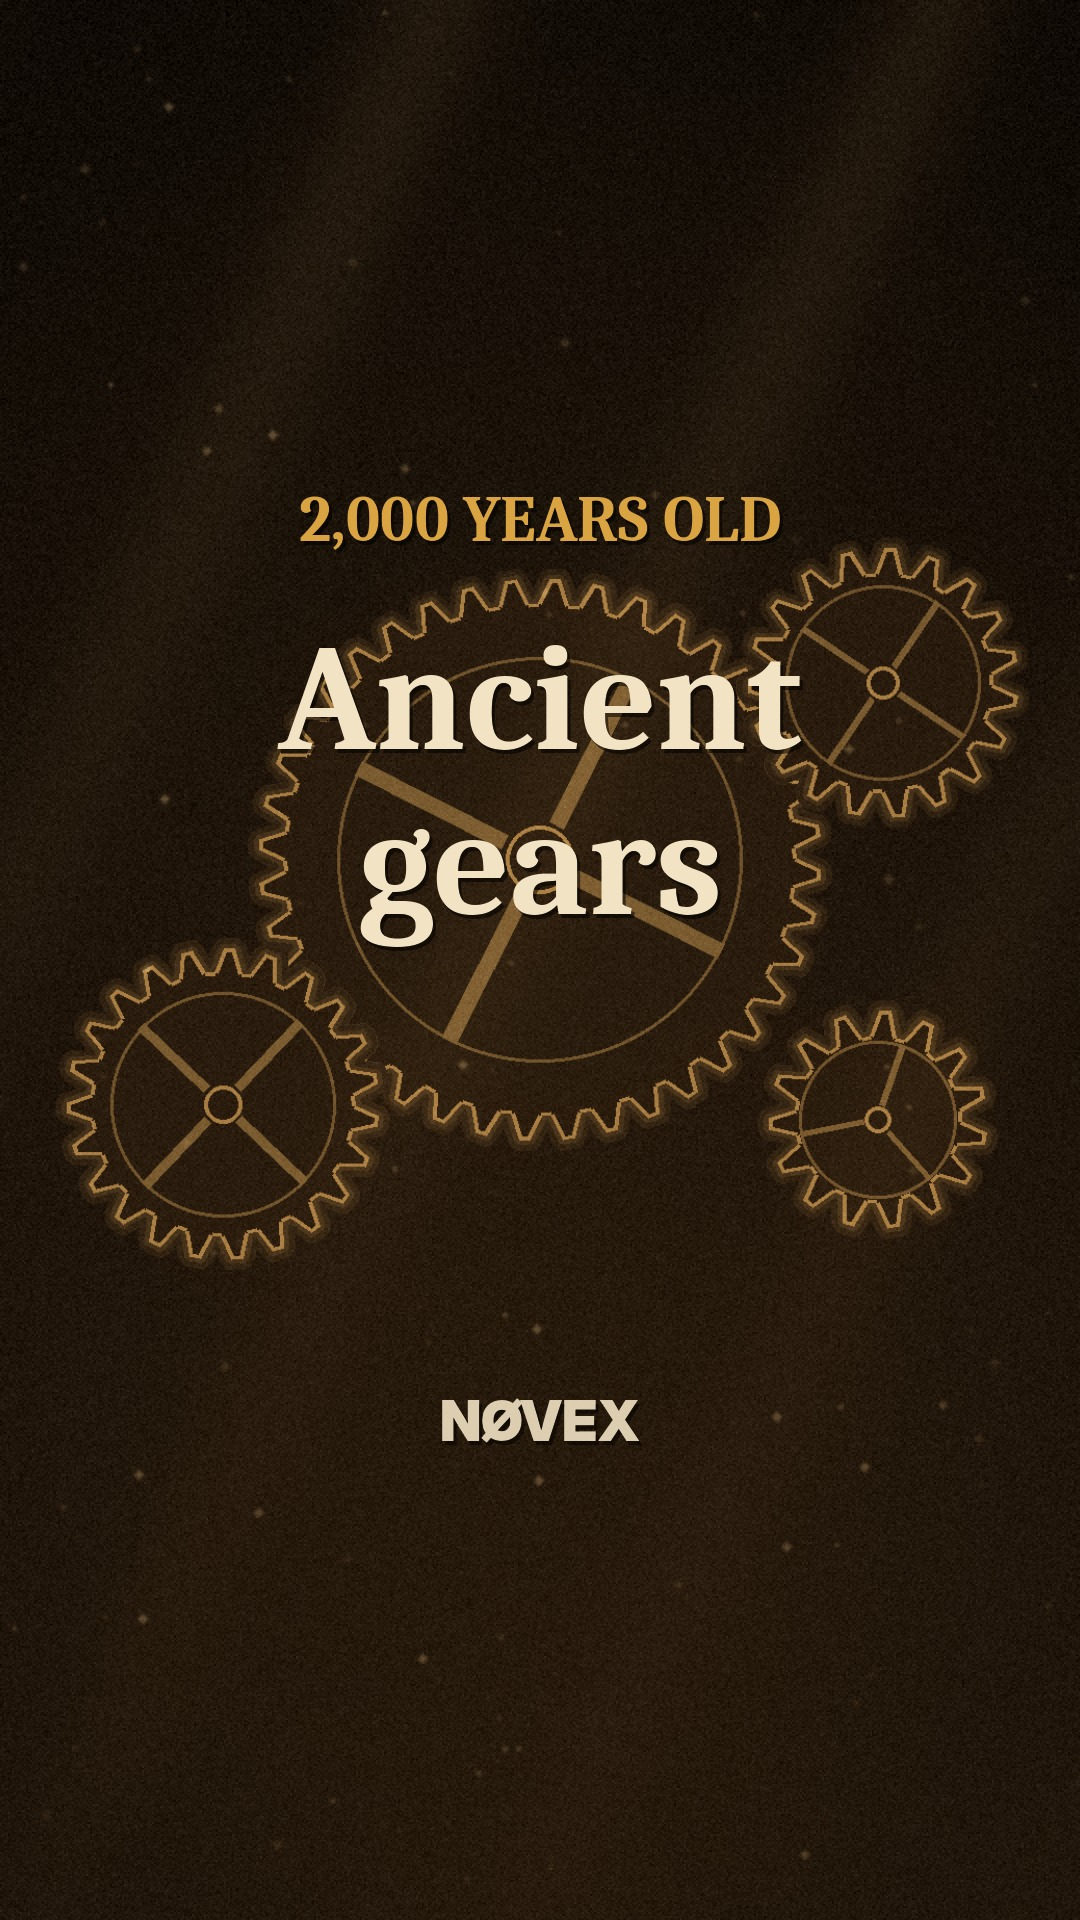
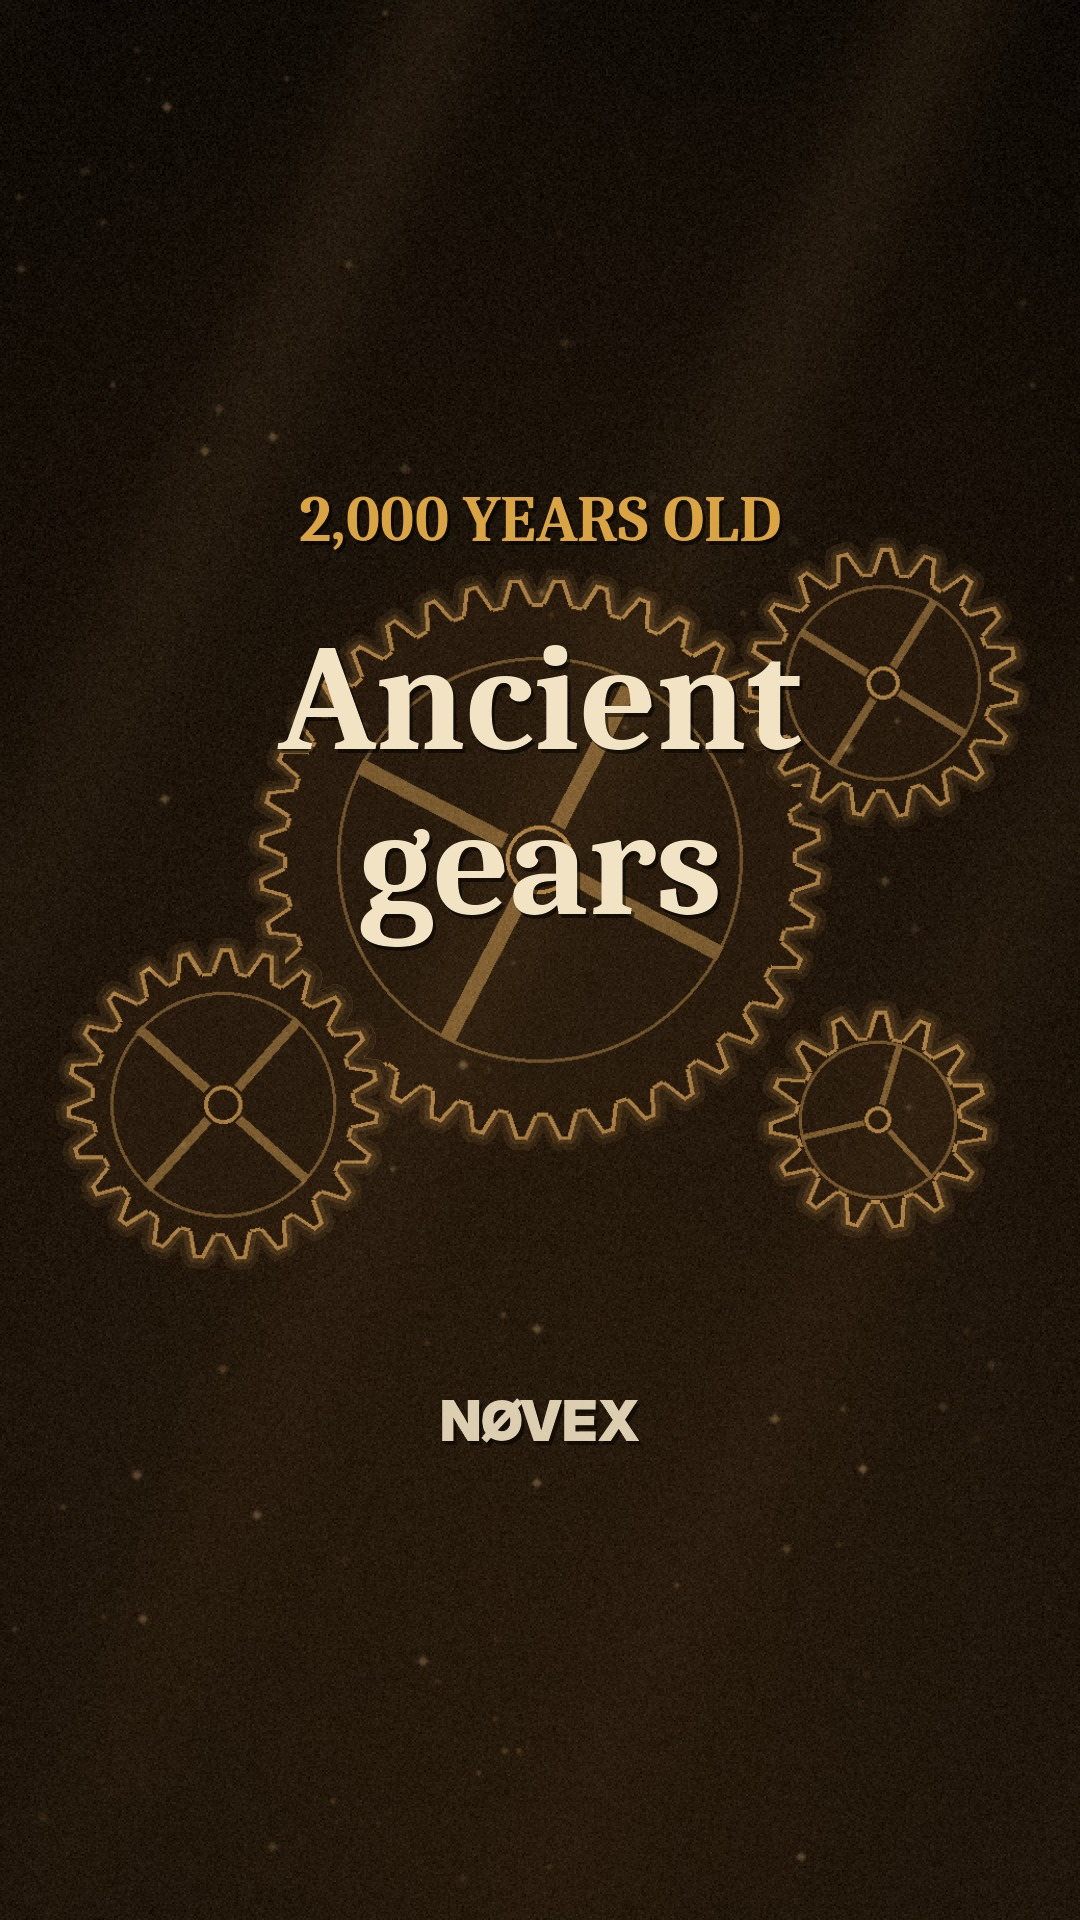
[claude] 08:00 antikythera-mechanism: ana erkek anlatıcı Kokoro am_adam (kokoro:5), Emir onayı; v4 yeniden üretildi
Emir 5 erkek ses örneğinden 3 numarayı (Adam) seçti. Kurulum Kokoro'yu indirir;
CLAUDE.md, standart ve SESLENDIRME.md güncellendi; LISANS.txt yayin_uygun: evet
(Apache 2.0 + Emir onayı; eğitim verisi notu ⚠).

Claude-Session: https://claude.ai/code/session_01Ez39WYSpxoLERAtNpYEsDg

diff --git a/araclar/anlatim_ifade.py b/araclar/anlatim_ifade.py
@@ -2,7 +2,7 @@
 Duygu/vurgu kontrolü olmayan modellerde (VITS/Piper, Matcha, Kokoro) vurgu ve tonlama bu parçalı "performans" ile kurulur.
 
 Kullanım:  python3 araclar/anlatim_ifade.py performans.json motor cikti_klasoru/ [hiz_carpani]
-  motor: piper-ljspeech | matcha-ljspeech | kokoro:<sid>
+  motor: piper-ljspeech | matcha-ljspeech | kokoro:<sid>  (kokoro:5 = am_adam, NØVEX ana erkek anlatıcı — Emir, 4 Kas 2026)
 performans.json:
 {"bas_sessizlik": 0.3,
  "cumleler": [
@@ -26,7 +26,7 @@ MOTOR = {
                                   f"--matcha-data-dir={d}/matcha-icefall-en_US-ljspeech/espeak-ng-data"],
 }
 DIZIN = {"piper-ljspeech": f"{C}/dl_piper/vits-piper-en_US-ljspeech-high", "matcha-ljspeech": f"{C}/dl_matcha",
-         "kokoro": "/home/claude/tts_eval/dl/kokoro-en-v0_19"}
+         "kokoro": f"{C}/dl_kokoro/kokoro-en-v0_19"}   # kurulum_ortam.sh; Apache 2.0
 SR = 48000
 
 

diff --git a/QUALITY_CONTROL.md b/QUALITY_CONTROL.md
@@ -2,7 +2,7 @@
 
 | Klasör | Teknik | Siyah/Donuk | Senkron | Ses/fon min | LUFS/TP | Telaffuz WER | Ses lisansı | Yayına hazır |
 |---|---|---|---|---|---|---|---|---|
-| `2026-11-04_0800_antikythera-mechanism` | 10/10 | 0/0 | 2.0 ms | 16.1 dB | [-13.9, -1.7] | 5.4% | Emir onayı bekliyor | HAYIR |
+| `2026-11-04_0800_antikythera-mechanism` | 10/10 | 0/0 | 2.0 ms | 15.9 dB | [-13.8, -1.8] | 2.7% | onaylı | EVET |
 | `2026-11-04_1200_lake-nyos` | 10/10 | 0/0 | 2.0 ms | 17.0 dB | [-13.9, -1.6] | 5.0% | Emir onayı bekliyor | HAYIR |
 | `2026-11-04_1600_venus-day-longer-than-year` | 10/10 | 0/0 | 2.0 ms | 15.5 dB | [-13.8, -1.6] | 1.0% | Emir onayı bekliyor | HAYIR |
 | `2026-11-04_2000_what-if-gibraltar-closed` | 10/10 | 0/0 | 2.0 ms | 14.7 dB | [-13.9, -1.7] | 4.3% | Emir onayı bekliyor | HAYIR |
@@ -13,10 +13,10 @@ MP4 + kapak + SRT + paket + zorunlu katılım sorusu + 3D sahne oranı + ses/lis
 
 | Video | MP4 | Süre | Kapak | SRT | Paket+katılım | 3D sahne | Ses | Teknik QC | Durum |
 |---|---|---|---|---|---|---|---|---|---|
-| 2026-11-04_0800_antikythera-mechanism | 196.0 MB · `10c817637ca4` | 49.1 sn | 1080×1920 | 10 satır | ✅ | 9/9 3D, harita 0 | piper-norman (Emir: bekliyor) | 10/10 | ⏳ onay bekliyor |
-| 2026-11-04_1200_lake-nyos | 146.7 MB · `e80950d2c8b9` | 51.0 sn | 1080×1920 | 10 satır | ✅ | 9/9 3D, harita 0 | piper-norman (Emir: bekliyor) | 10/10 | ⏳ onay bekliyor |
-| 2026-11-04_1600_venus-day-longer-than-year | 127.6 MB · `958de103d0c3` | 46.67 sn | 1080×1920 | 10 satır | ✅ | 9/9 3D, harita 0 | piper-norman (Emir: bekliyor) | 10/10 | ⏳ onay bekliyor |
-| 2026-11-04_2000_what-if-gibraltar-closed | 135.4 MB · `51d5ab666478` | 47.8 sn | 1080×1920 | 10 satır | ✅ | 9/9 3D, harita 0 | piper-norman (Emir: bekliyor) | 10/10 | ⏳ onay bekliyor |
+| 2026-11-04_0800_antikythera-mechanism | 193.2 MB · `707aaa154b77` | 48.3 sn | 1080×1920 | 10 satır | ✅ | 9/9 3D, harita 0 | kokoro:5 (Emir: evet) | 10/10 | ✅ yayına hazır |
+| 2026-11-04_1200_lake-nyos | — MB · `` | — sn | 1080×1920 | 10 satır | — | 9/9 3D, harita 0 | piper-norman (Emir: bekliyor) | 10/10 | ❌ cikti/VIDEO.mp4 yok — gerçek MP4 üretilmemiş |
+| 2026-11-04_1600_venus-day-longer-than-year | — MB · `` | — sn | 1080×1920 | 10 satır | — | 9/9 3D, harita 0 | piper-norman (Emir: bekliyor) | 10/10 | ❌ cikti/VIDEO.mp4 yok — gerçek MP4 üretilmemiş |
+| 2026-11-04_2000_what-if-gibraltar-closed | — MB · `` | — sn | 1080×1920 | 10 satır | — | 9/9 3D, harita 0 | piper-norman (Emir: bekliyor) | 10/10 | ❌ cikti/VIDEO.mp4 yok — gerçek MP4 üretilmemiş |
 
 ## Referansa göre: `2026-11-04_0800_antikythera-mechanism`
 

diff --git a/TASK_QUEUE.md b/TASK_QUEUE.md
@@ -37,7 +37,7 @@
 | T-20261104-12 | Claude ↔ ChatGPT canlı mesajlaşma (Cloudflare) | Claude | P2 | engelli | 04.11 | Claude ortamı workers.dev erişemiyor; strateji/CANLI_ILETISIM_MIMARISI.md |
 | T-20261104-13 | Telaffuz düzeltmesi (en iyi 3 seçim + fonetik yazım), 4 Short sesini yeniden üret | Claude | P1 | tamam | 04.11 | `cikti/anlatim/secim.json` |
 | T-20261104-14 | Venus Short v2: Norman erkek ses + 3D gezegen sahnesi + katılım sorusu (Mars/Mercury) | Claude | P0 | tamam | 04.11 02:30 | `videolar/2026-11-04_1600_venus-day-longer-than-year/cikti/qc_rapor.md` (teknik 10/10) |
-| T-20261104-15 | Norman sesini (en_US-norman-medium) dinle; onay ya da ret | Emir | P0 | açık | 04.11 | 4 videonun MP3'ü sohbette; lisans: LibriVox kamu malı + MIT; `ses/LISANS.txt` |
+| T-20261104-15 | Norman sesini (en_US-norman-medium) dinle; onay ya da ret | Emir | P0 | tamam | 04.11 | Emir Norman yerine Kokoro am_adam (kokoro:5) seçti (5 sesle A/B, 4 Kas); 4 videonun MP3'ü sohbette; lisans: LibriVox kamu malı + MIT; `ses/LISANS.txt` |
 | T-20261104-16 | Diğer 3 Short'u yeni kalite standardına taşı (3D sahne, erkek ses, katılım sonu) | Claude | P1 | tamam | 04.11 10:45 | 4/4 gerçek MP4, teslim_dogrula çıkış 0, 9/9 somut görsel; `QUALITY_CONTROL.md`, `videolar/*/REFERANS_QC.md` |
 | T-20261104-17 | Kalite standardı + katılım sorusu kalıcı belgelere (CLAUDE.md, NOVEX_MASTER, standart §10, referans kaydı) | Claude | P0 | tamam | 04.11 09:00 | `CLAUDE.md`, `strateji/GORSEL_REFERANS.md`, `d6fddc5` |
 | T-20261104-18 | Teslim doğrulayıcı (MP4/kapak/SRT/paket/katılım/3D/lisans) + testler | Claude | P0 | tamam | 04.11 09:00 | `araclar/teslim_dogrula.py`, `testler/test_teslim_dogrula.py` 12/12 |

diff --git a/CLAUDE.md b/CLAUDE.md
@@ -20,7 +20,8 @@ ChatGPT strateji, araştırma, sahne promptları ve eleştirel QC yapar (`CHATGP
 
 ## Ses ve lisans
 - Anlatıcı: doğal, sıcak, belgesel tonunda **erkek ses**; robotik değil. Sese agresif gürültü azaltma, keskinleştirme veya aşırı sıkıştırma uygulanmaz. Müzik anlatımı asla bastırmaz (konuşma fonun ≥ 12 dB üstünde).
-- Güncel aday: Piper `en_US-norman-medium` (`ses_motoru: piper-norman`, `hiz_carpani` ≈ 1.1). Lisans zinciri temiz (LibriVox kamu malı + MIT) — **Emir onaylamadan yayına uygun DEĞİL.**
+- **Ana anlatıcı (Emir onayı, 4 Kasım 2026): Kokoro-82M v0.19, ses `am_adam` → `ses_motoru: kokoro:5`, `hiz_carpani` 1.0.** Ağırlıklar Apache 2.0 (ticari serbest); ⚠ eğitim verisinin bir kısmı kapalı TTS çıktısı (model kartı) — YouTube'da sentetik içerik beyanı işaretlenir. `ses/LISANS.txt` şablonu: `videolar/2026-11-04_0800_antikythera-mechanism/ses/LISANS.txt` (`yayin_uygun: evet`). Ses her videoda `anlatim_performans.json` ile geliştirilir; başka sese geçiş yalnız Emir onayıyla.
+- Yedek: Piper `en_US-norman-medium` (`piper-norman`, LibriVox kamu malı + MIT) — onaylanmadı.
 - Matcha **onaylanmadı**. Kadın ses (ljspeech) yalnızca taslak/yedek.
 - Bir sesin yayına uygun sayılması için ikisi birden gerekir: ticari + YouTube/Instagram/TikTok lisansı doğrulanmış **ve** Emir'in açık onayı. Kayıt: `videolar/<v>/ses/LISANS.txt` → `yayin_uygun: evet` yalnızca Emir onayından sonra yazılır.
 - Yeni ses modeli: aynı metinle karşılaştırılır, Emir örnekleri dinler; mevcut model onaysız değiştirilmez. Bir videoda anlatıcı sebepsiz değişmez.

diff --git a/strateji/URETIM_TESLIM_STANDARDI.md b/strateji/URETIM_TESLIM_STANDARDI.md
@@ -106,9 +106,12 @@ Tam metin: `strateji/KALITE_STANDARDI_4KASIM.md`.
 - Kling, Higgsfield ve benzeri ücretli üretim araçları onaysız kullanılmaz. ChatGPT sahne promptlarını hazırlar; ücretli üretim Emir onayıyla yapılır.
 
 **Anlatıcı:**
-- Öncelik doğal, sıcak bir erkek ses.
-- Lisansı temiz aday: Piper `en_US-norman-medium` (`piper-norman`, hız çarpanı ~1.1).
-- **Emir dinleyip onaylayana kadar yayına hazır sayılmaz.**
+- **Ana anlatıcı (Emir kararı, 4 Kasım 2026): Kokoro-82M v0.19, ses `am_adam` → `ses_motoru: "kokoro:5"`, hız çarpanı 1.0.**
+  5 erkek ses (Michael, George, Adam, Lewis, Norman) aynı metinle dinletildi; Emir 3 numarayı (Adam) seçti: "her videoda tekrar tekrar geliştiririz".
+- Lisans: ağırlıklar Apache 2.0 (ticari kullanım serbest). ⚠ Eğitim verisinin bir kısmı kapalı ticari TTS çıktısı (model kartı) — gri alan olarak not edilir; YouTube'da sentetik içerik beyanı işaretlenir.
+- `ses/LISANS.txt` şablonu: `videolar/2026-11-04_0800_antikythera-mechanism/ses/LISANS.txt` (yayin_uygun: evet).
+- Ses kimliği kilitli: başka sese geçiş yalnızca Emir onayıyla. Geliştirme her videoda `anlatim_performans.json` (hız, vurgu, duraklama, `soyle`) ile yapılır.
+- Yedek: Piper `en_US-norman-medium` (`piper-norman`).
 - Agresif gürültü azaltma, keskinleştirme ve aşırı sıkıştırma yapılmaz.
 
 **Tipografi:** Kilit kelimeler `vurgu_kelimeler` ile altyazıda vurgu rengiyle gösterilir. Mobilde okunabilirlik kontrol edilir.

diff --git a/GUNLUK.md b/GUNLUK.md
@@ -13,3 +13,4 @@
 - 2026-11-04 [claude] 08:00 antikythera-mechanism: MP4 bu oturumda yeniden render edildi (önceki MP4 git dışıydı), teknik QC 10/10, sha256 397aa6e029b64afb…; lisans hâlâ onaysız.
 - 2026-11-04 10:50 (Claude): kalite standardı kalıcı (CLAUDE.md, referans, görsel üretim + sürekli gelişim sistemleri); foto sahnesi + teslim_dogrula (somut görsel, gelişim hedefi, tekrarsız soru); 4 Short yeni standartta gerçek MP4 (Norman, 3D, katılım sonu), teslim_dogrula 4/4, testler 36/36; yayına hazır değil (ses onayı). claude/kalite-standardi.
 - 2026-11-04 11:20 (Claude): gerçek referans video kaydedildi (SHA-256, 12 kare, analiz); motora ülke vurgusu/taşıma, yorum rozeti, kapanış kartı; 4 Short referansın altında (doku). claude/kalite-standardi.
+- 2026-11-04 11:15 [claude] Ses: Emir 5 erkek ses örneğinden Kokoro am_adam'ı (kokoro:5) ana anlatıcı seçti; CLAUDE.md, standart, SESLENDIRME, kurulum güncellendi; 08:00 Antikythera v4 Adam sesiyle yeniden üretildi (48 sn, QC 10/10, teslim_dogrula ✓, sha256 707aaa154b773956…).

diff --git a/marka/SESLENDIRME.md b/marka/SESLENDIRME.md
@@ -59,6 +59,16 @@ haftalık dağılım `plan/` dosyasında anlatıcı sütunuyla izlenir.
 | NØVEX | "Novex" (Ø = o) — testte doğru okunup okunmadığı Emir'in dinlemesiyle doğrulanacak |
 | Kamçatka, Madagaskar, Quanzhou | Testten sonra doldurulacak |
 
+## 4b. İngilizce kanal ana erkek anlatıcısı — ADAM (Emir kararı, 4 Kasım 2026)
+
+| Alan | Değer |
+|---|---|
+| Motor | Kokoro-82M v0.19 (hexgrad), sherpa-onnx `kokoro-en-v0_19` (`kurulum_ortam.sh` indirir) |
+| Ses | `am_adam` (sid 5) → `uretim.json` `ses_motoru: "kokoro:5"` |
+| Lisans | Ağırlıklar Apache 2.0, ticari kullanım serbest. ⚠ Eğitim verisinin bir kısmı kapalı TTS çıktısı (model kartı) |
+| Onay | Emir, 4 Kasım 2026: 5 erkek ses örneğinden 3 numara seçildi |
+| Yayına uygun | Evet (`ses/LISANS.txt` → `yayin_uygun: evet`) |
+
 ## 5. Yedek ve taslak sesler
 
 | Kaynak | Rol | Lisans | Not |

diff --git a/PRODUCTION_LOG.md b/PRODUCTION_LOG.md
@@ -2,7 +2,7 @@
 
 | Tarih | Slot | Klasör | Başlık | Aşama | MP4 | Teslim |
 |---|---|---|---|---|---|---|
-| 2026-11-04 | 08:00 | `2026-11-04_0800_antikythera-mechanism` | A 2,000-Year-Old Machine With Gears Inside | paket | 196.0 MB | teslim edildi |
+| 2026-11-04 | 08:00 | `2026-11-04_0800_antikythera-mechanism` | A 2,000-Year-Old Machine With Gears Inside | paket | 193.2 MB | teslim edildi |
 | 2026-11-04 | 12:00 | `2026-11-04_1200_lake-nyos` | The Lake That Killed 1,746 People in One Night | paket | 146.7 MB | teslim edildi |
 | 2026-11-04 | 16:00 | `2026-11-04_1600_venus-day-longer-than-year` | On Venus, a Day Is Longer Than a Year | paket | 127.6 MB | teslim edildi |
 | 2026-11-04 | 20:00 | `2026-11-04_2000_what-if-gibraltar-closed` | What If the Strait of Gibraltar Closed? | paket | 135.4 MB | teslim edildi |

diff --git a/videolar/2026-11-04_0800_antikythera-mechanism/cikti/qc_rapor.md b/videolar/2026-11-04_0800_antikythera-mechanism/cikti/qc_rapor.md
@@ -6,8 +6,8 @@
 | Piksel formatı yuv420p | yuv420p | ✅ |
 | Rec.709 / SDR | bt709/bt709/bt709 | ✅ |
 | Ses AAC 48 kHz | aac 48000 | ✅ |
-| Süre (Shorts ≤ 60 sn) | 49.100 sn | ✅ |
-| Kare sayısı | 1473 | ✅ |
+| Süre (Shorts ≤ 60 sn) | 48.300 sn | ✅ |
+| Kare sayısı | 1449 | ✅ |
 | Tam çözümleme | hata yok | ✅ |
 | Ses yüksekliği ≈ −14 LUFS | -13.9 LUFS | ✅ |
-| Ses lisansı yayına uygun | HF rhasspy/piper-voices MODEL_CARD + LibriVox kamu malı beyanı) | ❌ |
+| Ses lisansı yayına uygun | HF hexgrad/Kokoro-82M model kartı + paketteki LICENSE dosyası, Apache 2.0) | ✅ |
